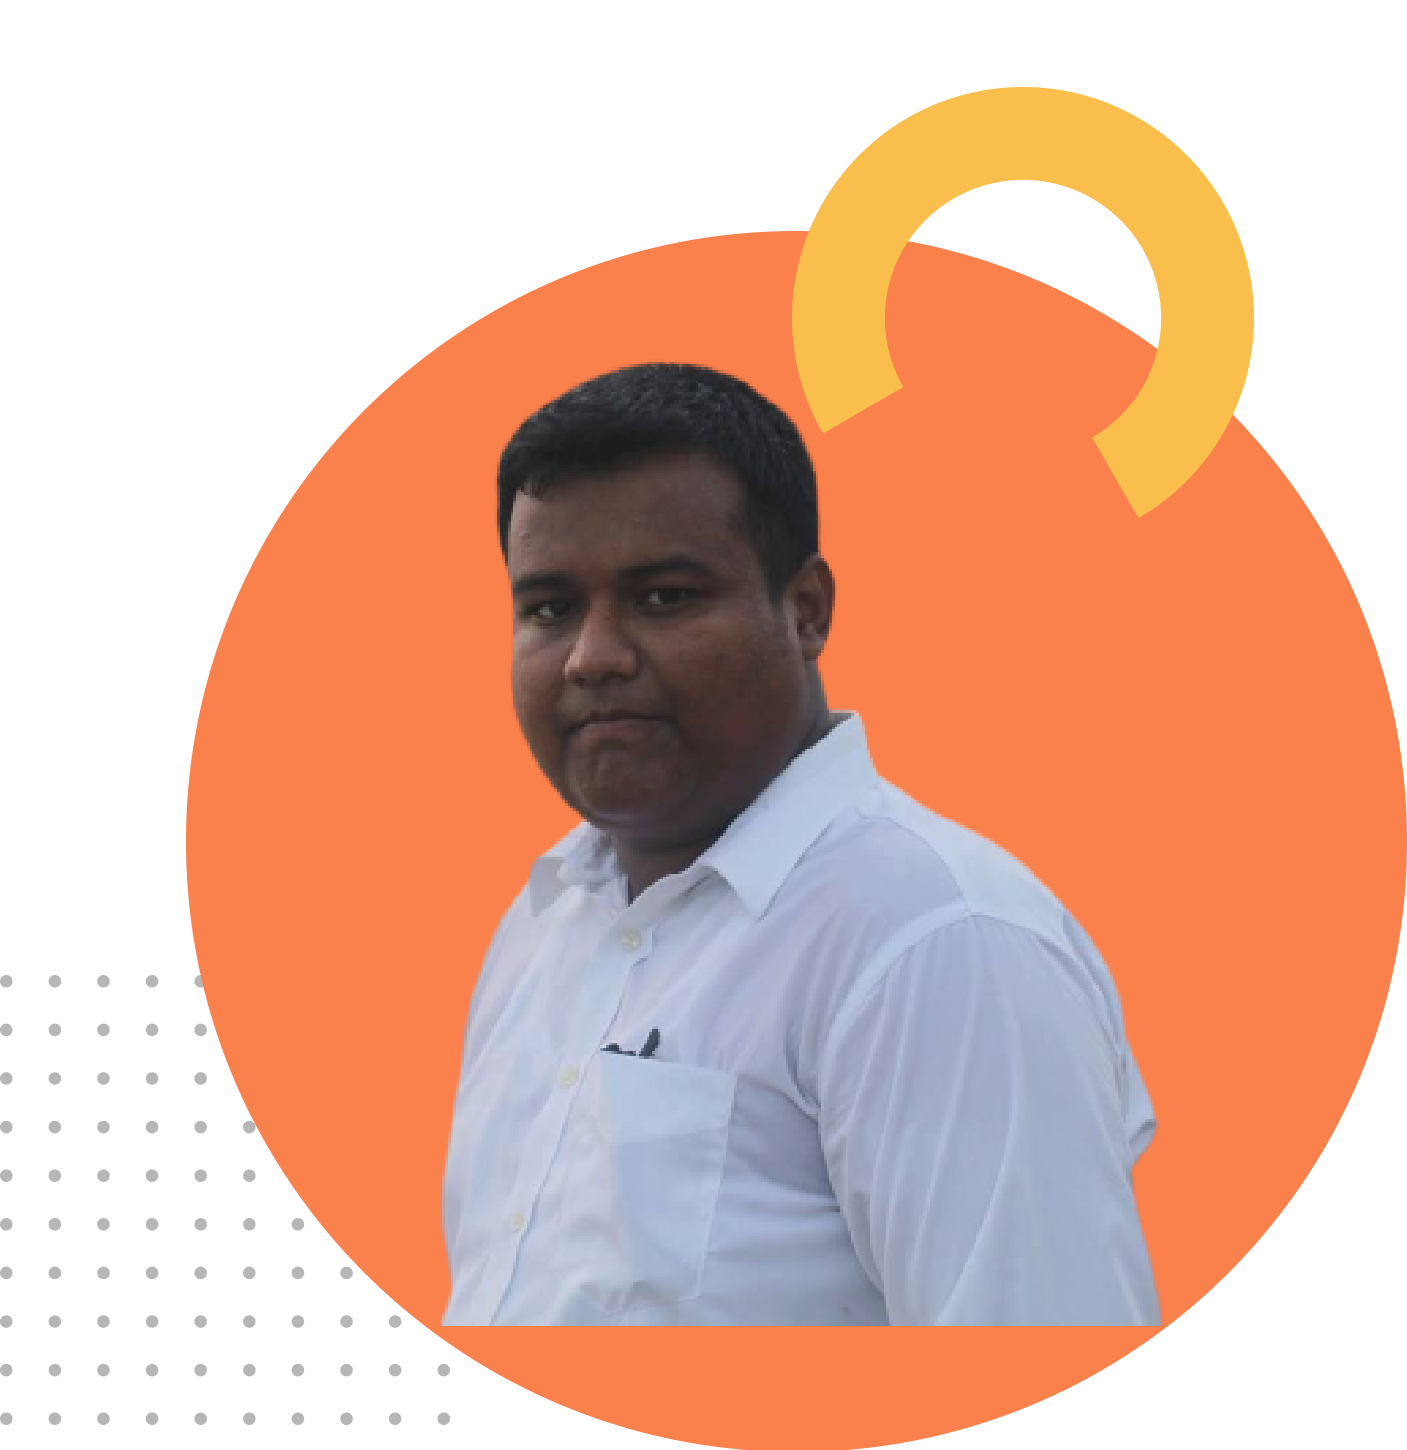
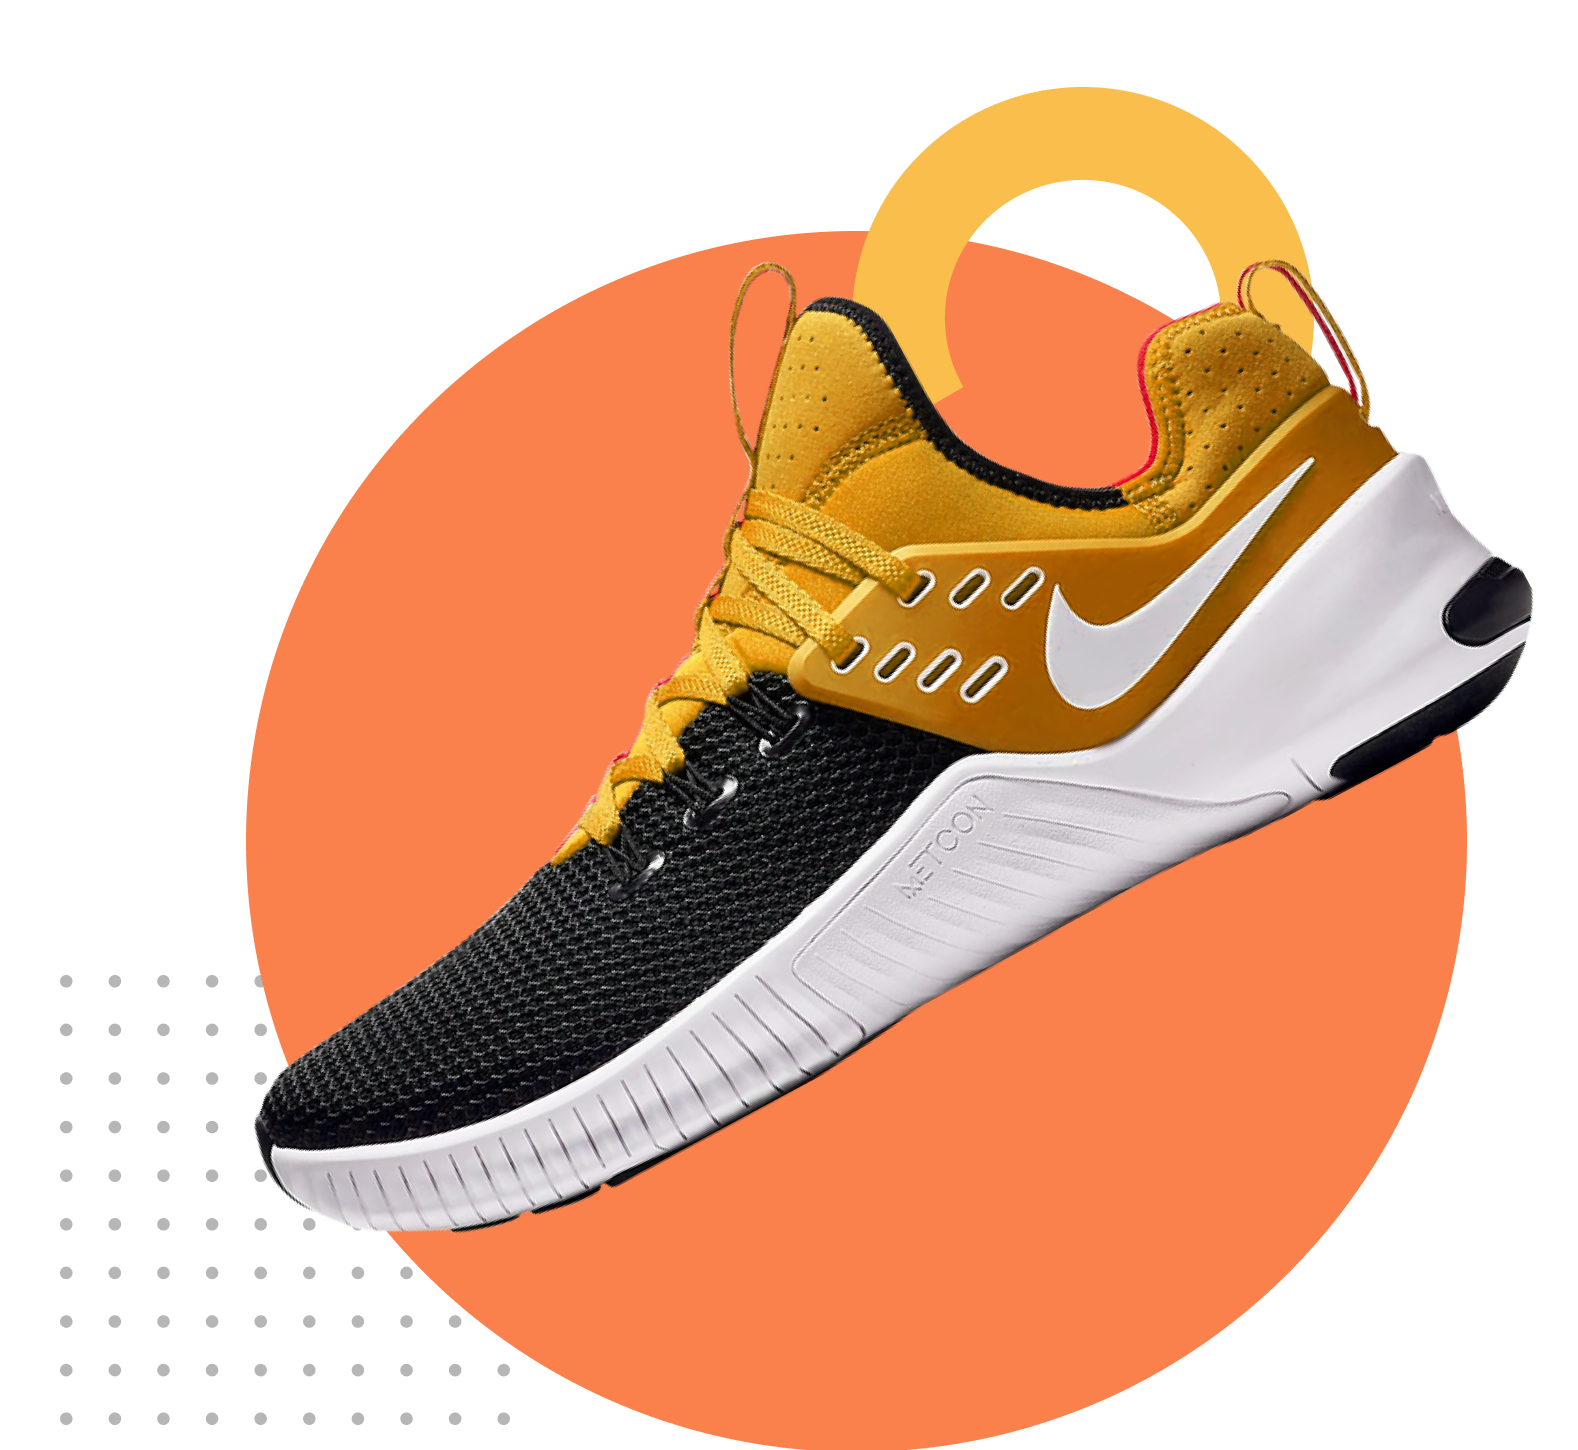
code added

diff --git a/index.html b/index.html
@@ -4,44 +4,151 @@
     <meta charset="UTF-8" />
     <meta name="viewport" content="width=device-width, initial-scale=1.0" />
     <title>Penguin Fashion</title>
+    <link href="https://fonts.googleapis.com/css2?family=Anton&display=swap" rel="stylesheet">
     <link href="https://fonts.googleapis.com/css2?family=Bodoni+Moda:wght@600&display=swap" rel="stylesheet">
     <link rel="icon" href="images/favicon.png" type="image/png" />
+    <link rel="stylesheet" href="https://use.fontawesome.com/releases/v5.15.1/css/all.css" integrity="sha384-vp86vTRFVJgpjF9jiIGPEEqYqlDwgyBgEF109VFjmqGmIY/Y4HV4d3Gp2irVfcrp" crossorigin="anonymous">
+    <link rel="stylesheet" href="css/bootstrap.min.css">
     <link rel="stylesheet" href="css/style.css" />
   </head>
   <body>
     <script src="js/bootstrap.min.js"></script>
 
     <!--Start Navbar-->
-    <div class="header">
-      <div class="container">
-        <div class="logo">
-          <img src="images/Group 33072.png" alt="" width="300" />
-        </div>
-        <div class="nav-menu">
-          <ul>
-            <li><a href="#">Home</a></li>
-            <li><a href="#">Product</a></li>
-            <li><a href="#">About us</a></li>
-            <li><a href="#">Contact us</a></li>
-          </ul>
+    
+    <section>
+      <div class="header">
+        <div class="container">
+          <div class="logo">
+            <img src="images/Group 33072.png" alt="" width="300" />
+          </div>
+          <div class="nav-menu">
+            <ul>
+              <li><a href="#">Home</a></li>
+              <li><a href="#">Product</a></li>
+              <li><a href="#">About us</a></li>
+              <li><a href="#">Contact us</a></li>
+            </ul>
+          </div>
         </div>
       </div>
-    </div>
-    <!--End Navbar-->
-
-    <section class="first-header">
-        <div class="first-section">
-            <h1><span>BE THE PENGUINS</span></h1>
-            <h1>OF WINTER</h1>
-            <p>Lorem ipsum dolor sit, amet consectetur adipisicing elit. Provident aut neque magnam mollitia! Quia, libero!</p>
-            <a class="link-button" href="http://www.google.com" target="_blank">HIRE ME</a>
-        </div>
-
-        <div>
-            <img class="img-1" src="images/pro-1.png" alt="">
-        </div>
     </section>
+    <!--End Navbar-->
+    <br><br>
+    <header class="mb-5">
+      <section class="first-header">
+        <div>
+          <img class="img-1" src="images/pro-1.png" alt="">
+        </div>
+        <div class="first-section">
+          <h1><span class="title-1">NIKE REACT</span></h1>
+          <h1><span class="title-2">INFINITY RUN 2</span></h1>
+          <P>Lorem ipsum dolor sit amet, consectetur adipisicing elit. Aliquid, assumenda.</P>
+          <button>
+            <i class="fas fa-shopping-cart"></i>
+            BUY NOW
+          </button>
+        </div>
 
+      </section>
+    </header>
+    
+    
+     <main class="container mt-5">
+        <section class="mt-5">
+        <h3 class="mb-5">CASUAL SHOES</h3>
+            <div class="row row-cols-1 row-cols-md-3 g-4 ">
+              <div class="col">
+              <div class="card panda-card h-100 shadow">
+              <img src="images//causal shoe/1.png" class="card-img-top" alt="...">
+              <div class="card-body">
+            </div>
+              <div class="card-footer panda-card-footer">
+                <h5 class="card-title">Nike Shoe</h5>
+                 <p class="card-text">This card has supporting text below as a natural lead-in to additional content.</p>
+                <button class="btn btn-success"><i class="fas fa-shopping-cart"></i>Buy Now>></button>
+              </div>
+              </div>
+            </div>
+            <div class="col">
+              <div class="card panda-card h-100 shadow">
+                <img src="images/causal shoe/2.png" class="card-img-top" alt="...">
+                <div class="card-body">
+    
+                </div>
+                <div class="card-footer panda-card-footer">
+                  <h5 class="card-title">Sneakers Skate Shoe </h5>
+                  <p class="card-text">This card has supporting text below as a natural lead-in to additional content.</p>
+                  <button class="btn btn-success"><i class="fas fa-shopping-cart"></i> Buy Now>></button>
+                </div>
+              </div>
+            </div>	
+            <div class="col">
+              <div class="card panda-card h-100 shadow">
+                <img src="images/causal shoe/3.png" class="card-img-top" alt="...">
+                <div class="card-body">
+    
+                </div>
+                <div class="card-footer panda-card-footer">
+                  <h5 class="card-title">Sneakers Basketball Shoe </h5>
+                  <p class="card-text">This card has supporting text below as a natural lead-in to additional content.</p>
+
+                  <span>$234</span> <button  class="btn btn-success">
+                     <i class="fas fa-shopping-cart"></i>
+                    Buy Now</button>
+                </div>
+              </div>
+            </div>
+          </div>
+        </section>
+      </section>
+      <section class="mt-5">
+        <h3 class="mb-5">FORMAL SHOES</h3>
+            <div class="row row-cols-1 row-cols-md-3 g-4 ">
+              <div class="col">
+              <div class="card panda-card h-100 shadow">
+              <img src="images//formal shoe/1.png" class="card-img-top" alt="...">
+              <div class="card-body">
+            </div>
+              <div class="card-footer panda-card-footer">
+                <h5 class="card-title">Nike Shoe</h5>
+                 <p class="card-text">This card has supporting text below as a natural lead-in to additional content.</p>
+                <button class="btn btn-success"><i class="fas fa-shopping-cart"></i>Buy Now>></button>
+              </div>
+              </div>
+            </div>
+            <div class="col">
+              <div class="card panda-card h-100 shadow">
+                <img src="images/formal shoe/2.png" class="card-img-top" alt="...">
+                <div class="card-body">
+    
+                </div>
+                <div class="card-footer panda-card-footer">
+                  <h5 class="card-title">Sneakers Skate Shoe </h5>
+                  <p class="card-text">This card has supporting text below as a natural lead-in to additional content.</p>
+                  <button class="btn btn-success"><i class="fas fa-shopping-cart"></i> Buy Now>></button>
+                </div>
+              </div>
+            </div>	
+            <div class="col">
+              <div class="card panda-card h-100 shadow">
+                <img src="images/formal shoe/3.png" class="card-img-top" alt="...">
+                <div class="card-body">
+    
+                </div>
+                <div class="card-footer panda-card-footer">
+                  <h5 class="card-title">Sneakers Basketball Shoe </h5>
+                  <p class="card-text">This card has supporting text below as a natural lead-in to additional content.</p>
+
+                  <span>$234</span> <button  class="btn btn-success">
+                     <i class="fas fa-shopping-cart"></i>
+                    Buy Now</button>
+                </div>
+              </div>
+            </div>
+          </div>
+        </section>
+    </main>
 
   </body>
 </html>

diff --git a/css/style.css b/css/style.css
@@ -1,57 +1,84 @@
-*{
-    margin:0;
-    padding:0;
+* {
+  margin: 0;
+  padding: 0;
 }
-.header{
-    margin-left: 10px;
-    margin-top: 30px;
+.header {
+  margin-left: 10px;
+  margin-top: 30px;
 }
-.container{
-    width: 1150px;
-    margin: auto;
+.container {
+  width: 1150px;
+  margin: auto;
 }
-.logo{
-    width:200px;
-    float:left;
+.logo {
+  width: 200px;
+  float: left;
 }
-.nav-menu ul li a{
-    text-decoration: none;
-    font-size:16px;
-    font-family: 'Bodoni Moda', serif;
-    color:black;
-    font-weight: 500;
+.nav-menu ul li a {
+  text-decoration: none;
+  font-size: 16px;
+  font-family: "Bodoni Moda", serif;
+  color: black;
+  font-weight: 400;
 }
-.nav-menu{
-    float: right;
+.nav-menu ul li a:hover {
+  background-color: hotpink;
 }
-.nav-menu ul{
-    list-style:none;
+.nav-menu {
+  float: right;
 }
-.nav-menu ul li{
-    float: left;
-    padding:15px 23px;  
+.nav-menu ul {
+  list-style: none;
+}
+.nav-menu ul li {
+  float: left;
+  padding: 15px 23px;
+}
+.first-header {
+  margin-top: 90px;
 }
 
-.first-section{
-    width:53%;
-    margin-top:95px;
-    padding-top:117px;
-    margin-left:40px;
-    padding-left:40px; 
-    float:left;  
+.first-section {
+  width: 50%;
+  margin-top: 20px;
+  margin-left: 20px;
+  padding-left: 45px;
+  float: right;
 }
-.img-1{
-    width: 32%;
-    margin-top: 11px;
-    margin-left: 5px;  
+.img-1 {
+  width: 40%;
+  margin-top: -71px;
+  margin-left: 56px;
+  float: left;
 }
-h1{
-    font-size:60px;
+h1 {
+  font-size: 75px;
+  font-weight: bolder;
 }
-.link-button{
-    text-decoration: none;
-    background-color:rgb(162,186,67);
-    border-radius: 10px;
-    padding:10px 10px;
-    font-weight: bold;
+
+button {
+  border: 1px solid #8da724;
+  border-radius: 10px;
+  margin-top: 40px;
+  margin-left: 0;
+  padding: 15px 30px;
+  background-color: #8da724;
+  font-weight: bold;
+  font-size: 15px;
+  color: white;
+}
+button:hover {
+  color: lightgray;
+}
+.fa-shopping-cart {
+  font-size: 15px;
+  color: white;
+}
+.title-1 {
+  color: saddlebrown;
+  font-family: "Anton", sans-serif;
+}
+.title-2 {
+  color: blue;
+  font-family: "Anton", sans-serif;
 }
